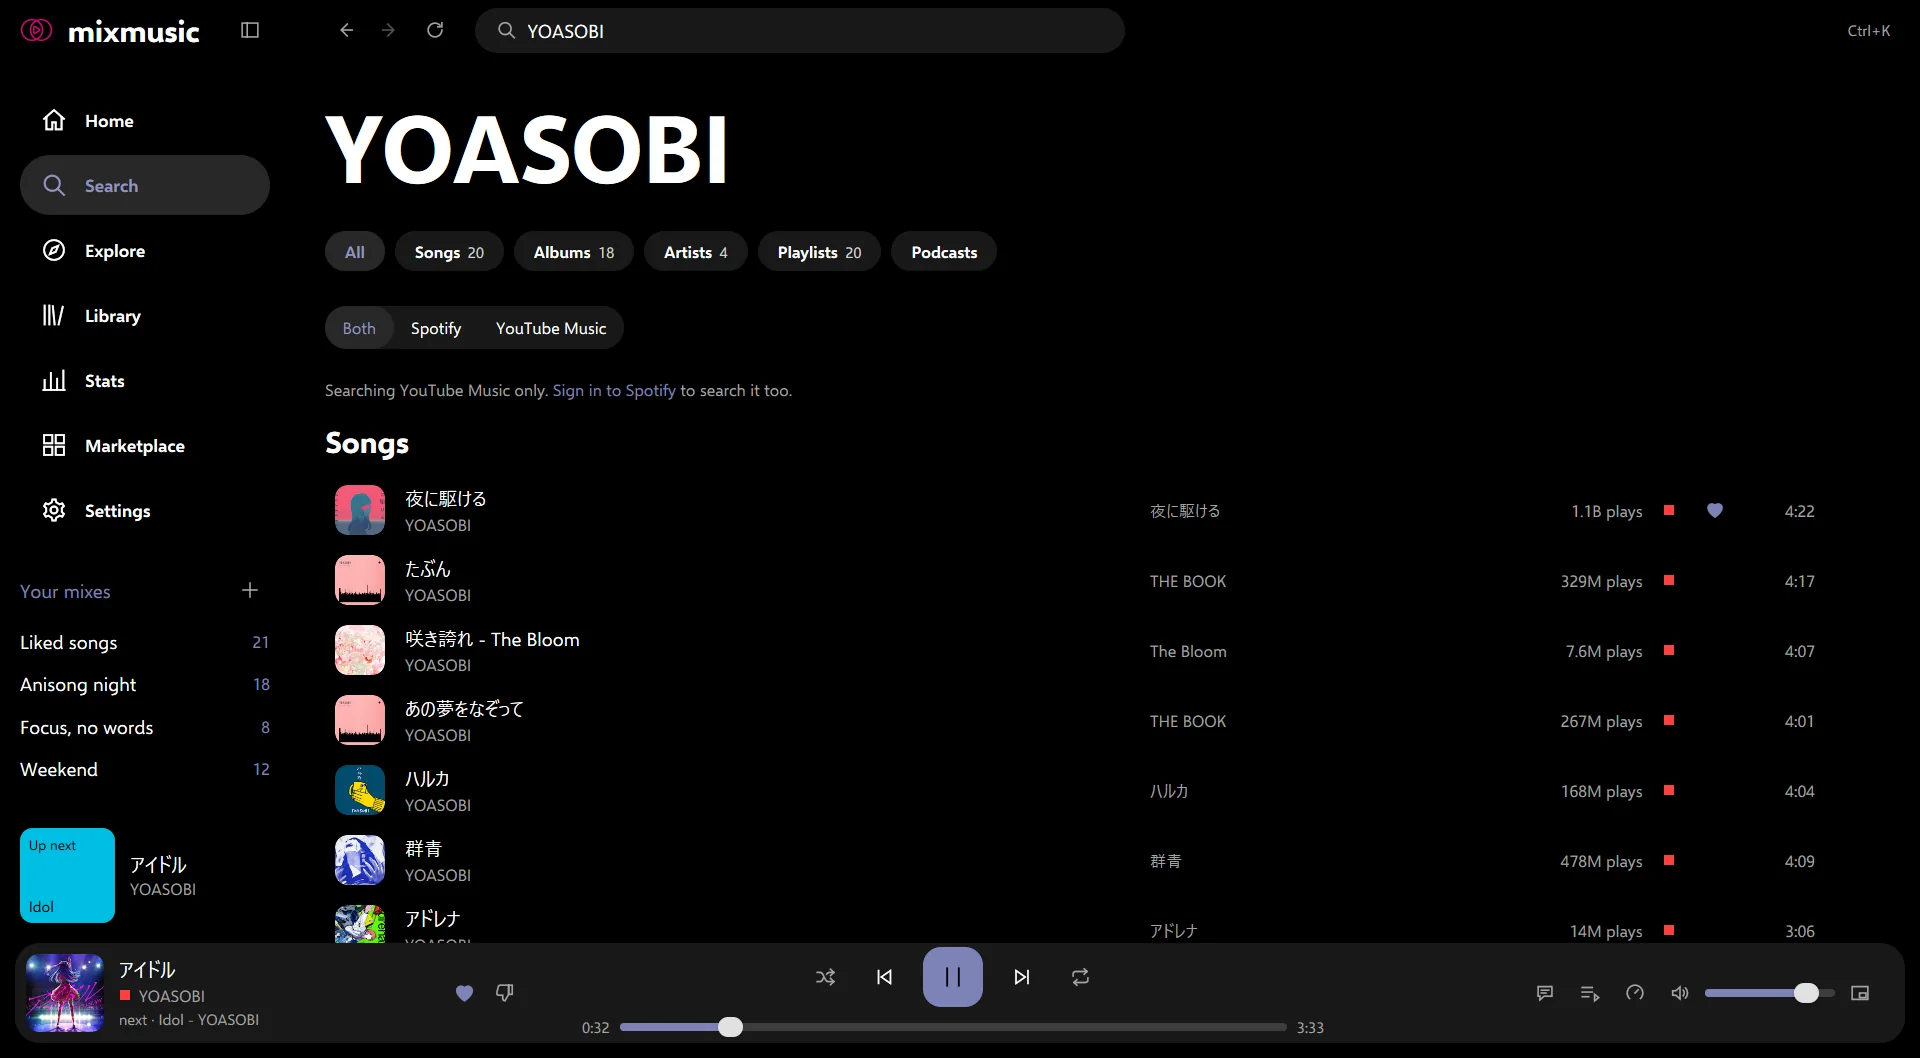
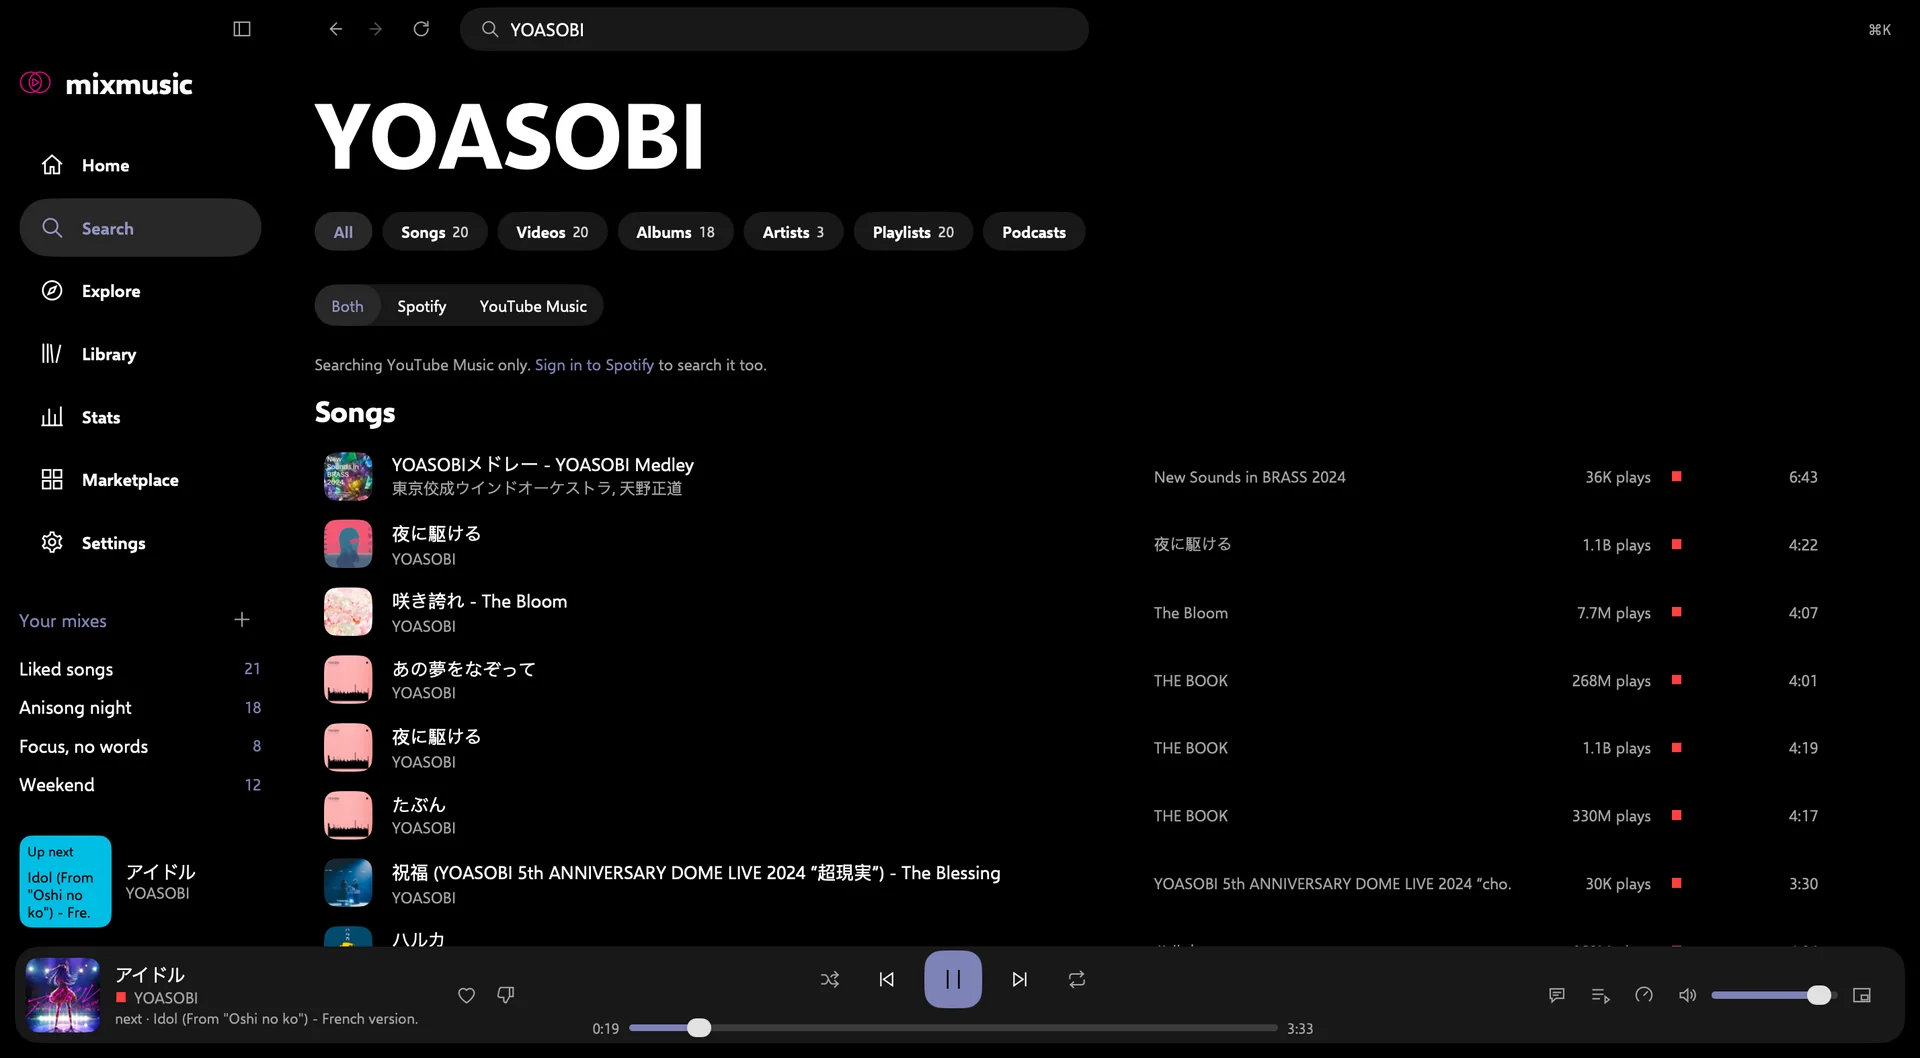
feat(site): the home page's search shows the Videos pivot (#334)

diff --git a/site/templates/index.html b/site/templates/index.html
@@ -332,12 +332,12 @@
 
         <div class="tab-body">
           <figure class="stage stage-tab" data-stage>
-            <img class="stage-img is-shown" data-stage-img src="assets/shots/search.webp" width="1920" height="1058" loading="lazy" alt="MixMusic's search page for YOASOBI: pivots for songs, albums, artists, playlists and podcasts, and the songs YouTube Music finds, each marked with its service." />
+            <img class="stage-img is-shown" data-stage-img src="assets/shots/search.webp" width="1920" height="1058" loading="lazy" alt="MixMusic's search page for YOASOBI: pivots for songs, videos, albums, artists, playlists and podcasts, and the songs YouTube Music finds, each marked with its service." />
           </figure>
 
-          <div class="panel" role="tabpanel" id="panel-search" aria-labelledby="tab-search" data-shot="search" data-alt="MixMusic's search page for YOASOBI: pivots for songs, albums, artists, playlists and podcasts, and the songs YouTube Music finds, each marked with its service.">
+          <div class="panel" role="tabpanel" id="panel-search" aria-labelledby="tab-search" data-shot="search" data-alt="MixMusic's search page for YOASOBI: pivots for songs, videos, albums, artists, playlists and podcasts, and the songs YouTube Music finds, each marked with its service.">
             <h3>One search box for both services</h3>
-            <p>Suggestions come as you type, and the songs, albums, artists, playlists and podcasts of Spotify and YouTube Music land in the same lists, each with a mark of where it comes from.</p>
+            <p>Suggestions come as you type, and the songs, albums, artists, playlists and podcasts of Spotify and YouTube Music land in the same lists, each with a mark of where it comes from. YouTube's videos, such as DJ sets and live recordings, have a list of their own.</p>
             <ul class="marks">
               <li><span class="mark mark-spotify" aria-hidden="true"></span>A disc for Spotify</li>
               <li><span class="mark mark-youtube" aria-hidden="true"></span>A square for YouTube Music</li>
